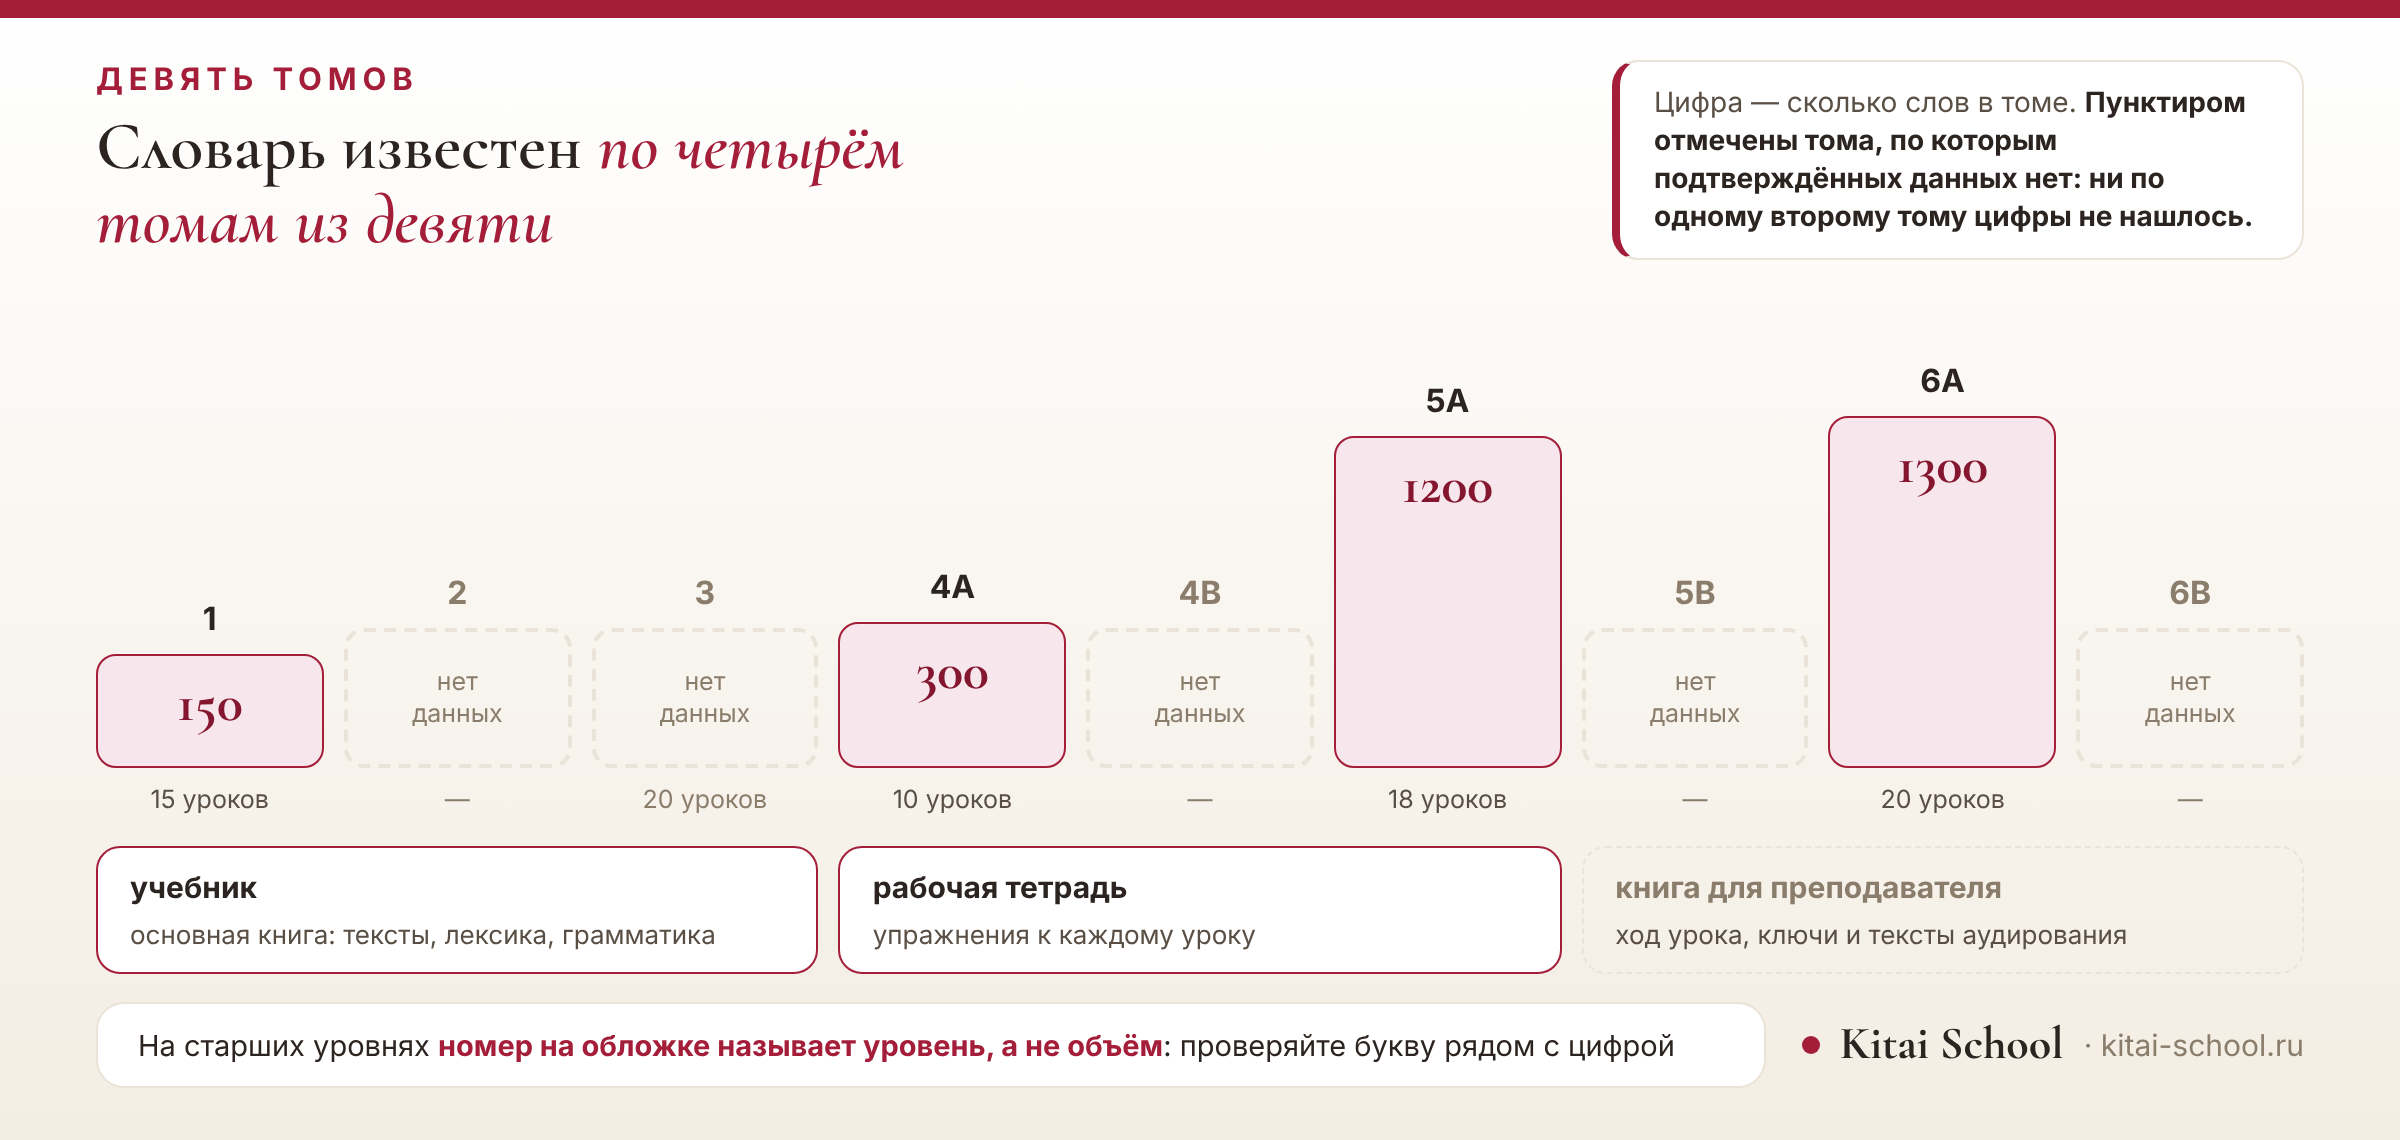
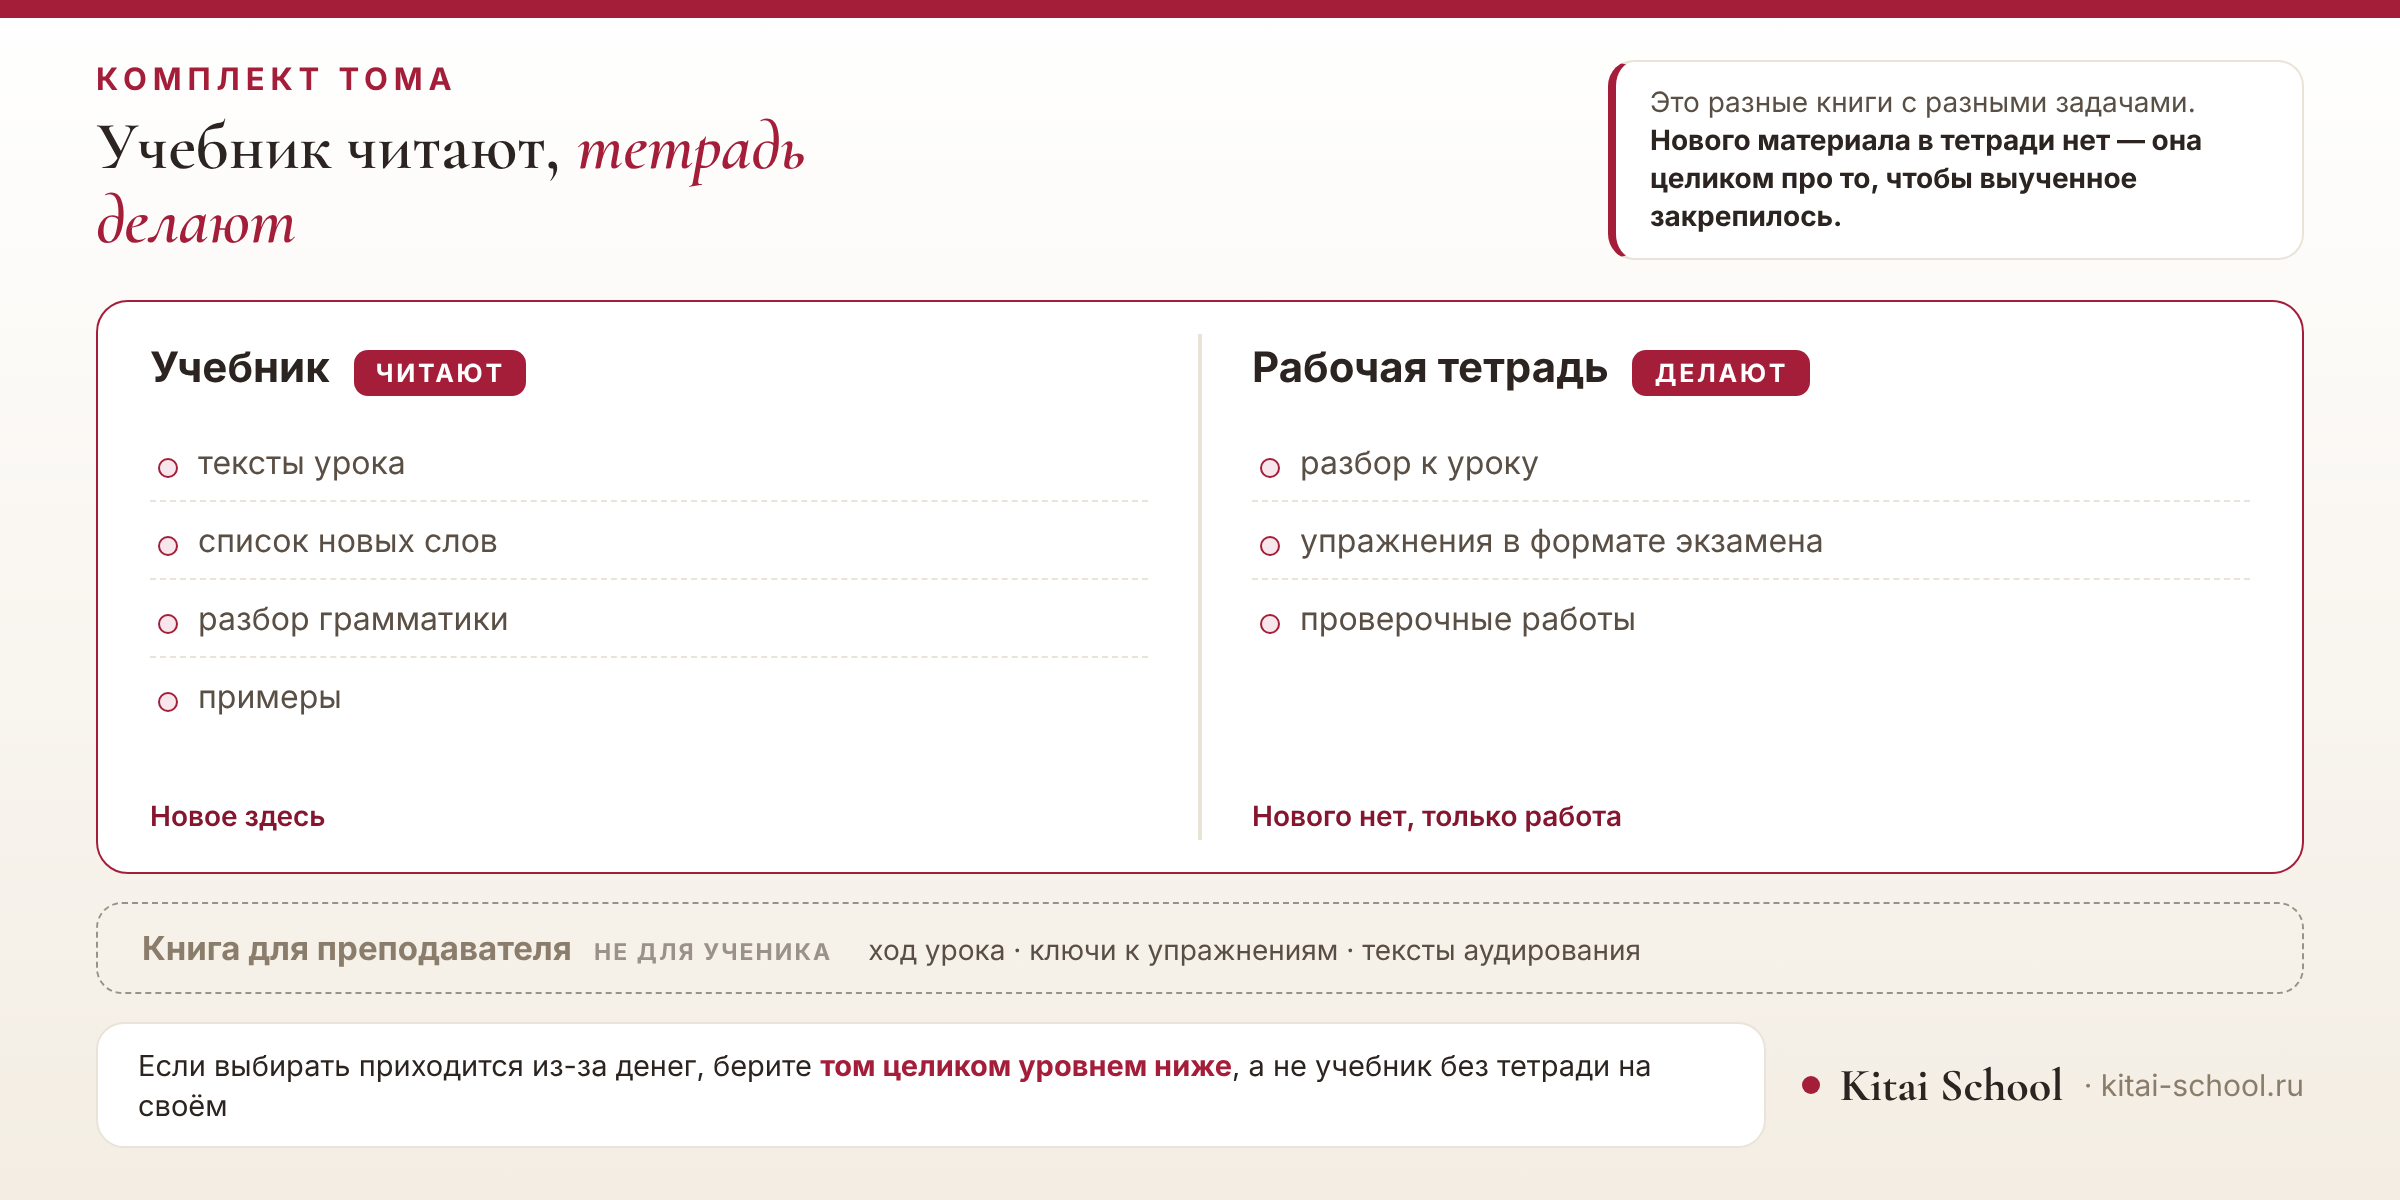
Новая инфографика к «Учебнику HSK Standard Course»: разбор комплекта
Вместо словаря томов — разворот двух книг, которые нужны ученику:
слева учебник с тем, что в нём лежит, справа тетрадь, посередине
корешок. Под разворотом книга для преподавателя отдельной строкой с
пометкой «не для ученика».

Состав книг вынесен в данные: ассерты сверяют его с комплектом по
названиям, порядку и признаку нужности, требуют, чтобы пункты не
повторялись между книгами и чтобы в учебнике их было больше, чем в
тетради. Первый вариант ассерта требовал по три пункта в каждой книге
и поймал, что в учебнике их четыре.

Claude-Session: https://claude.ai/code/session_017dS7Wuw6MNB5fnZSr6hVh2

diff --git a/content/img-uchvse.py b/content/img-uchvse.py
@@ -1,10 +1,10 @@
 # -*- coding: utf-8 -*-
 # Картинки к статье «HSK Standard Course: учебники по уровням»
 # Обложка     — три ступени счёта: шесть уровней, девять томов, двадцать семь книг
-# Инфографика — девять томов в ряд: у четырёх словарь подтверждён, у пяти поле пустое
+# Инфографика — разбор комплекта: что лежит в учебнике, тетради и книге преподавателя
 import sys
 sys.path.insert(0, "/home/user/Kitai-Shool/content")
-from uch_vse import (VOLUMES, KIT, LEVELS, VOLS_PER_LEVEL, ONE_VOLUME, TWO_VOLUMES,
+from uch_vse import (VOLUMES, KIT, INSIDE, HOW, LEVELS, VOLS_PER_LEVEL, ONE_VOLUME, TWO_VOLUMES,
                      TOTAL_VOLUMES, BOOKS_PER_VOLUME, TOTAL_BOOKS, KNOWN, UNKNOWN,
                      SERIES_NAME, SERIES_CN)
 
@@ -107,27 +107,29 @@ h1 i{font-style:italic;color:var(--brick)}
 assert "%%" not in hero, "в разметке остались двойные проценты"
 open(S + "uchvse-hero.html", "w", encoding="utf-8").write(hero)
 
-# ─────────── инфографика: девять томов, словарь известен по четырём ───────────
-TOP_W = max(v[3] for v in KNOWN)
-MAXH, MINH = 176, 42
-cols = ""
-for lvl, tag, les, w in VOLUMES:
-    if w:
-        h = round(MINH + (MAXH - MINH) * w / TOP_W)
-        inner = ('<div class="bar on" style="height:%dpx"><span>%d</span></div>'
-                 '<div class="les">%d уроков</div>' % (h, w, les))
-    else:
-        inner = ('<div class="bar off"><span>нет<br>данных</span></div>'
-                 '<div class="les">%s</div>' % ("%d уроков" % les if les else "—"))
-    cols += '<div class="cl%s"><div class="tag">%s</div>%s</div>' % (
-        "" if w else " dim", tag, inner)
-assert cols.count('class="bar on"') == len(KNOWN) == 4
-assert cols.count('class="bar off"') == len(UNKNOWN) == 5
+# ─────────── инфографика: что лежит в каждой книге комплекта ───────────
+NEED = [b for b in INSIDE if b[2]]
+EXTRA = [b for b in INSIDE if not b[2]]
+assert len(NEED) == 2 and len(EXTRA) == 1
 
-kit_items = "".join(
-    '<div class="ki%s"><b>%s</b><span>%s</span></div>'
-    % ("" if need else " no", name, what) for name, what, need in KIT)
-assert kit_items.count('class="ki no"') == 1, "одна книга из трёх ученику не нужна"
+HOW_D = dict((n, (verb, note)) for n, verb, note in HOW)
+
+pages = ""
+for name, parts, need in NEED:
+    verb, note = HOW_D[name]
+    items = "".join('<li>%s</li>' % p for p in parts)
+    pages += ("""<div class="pg">
+  <div class="ph"><b>%(name)s</b><i>%(verb)s</i></div>
+  <ul class="pl">%(items)s</ul>
+  <div class="pn">%(note)s</div>
+</div>""" % dict(name=name.capitalize(), verb=verb, items=items, note=note[0].upper() + note[1:]))
+assert pages.count('class="pg"') == 2
+assert pages.count("<li>") == sum(len(p) for n, p, need in NEED)
+
+ename, eparts, _ = EXTRA[0]
+extra = ('<div class="ex"><div class="eh"><b>%s</b><i>не для ученика</i></div>'
+         '<div class="el">%s</div></div>'
+         % (ename.capitalize(), " · ".join(eparts)))
 
 info = """<!DOCTYPE html><html lang="ru"><head><meta charset="utf-8">
 %(fonts)s
@@ -138,29 +140,28 @@ info = """<!DOCTYPE html><html lang="ru"><head><meta charset="utf-8">
 .wrap:before{content:"";position:absolute;left:0;right:0;top:0;height:9px;background:var(--brick)}
 .top{display:flex;align-items:flex-end;justify-content:space-between;gap:34px;margin-bottom:20px}
 .eyebrow{color:var(--brick);font-weight:700;font-size:15.5px;letter-spacing:.19em;text-transform:uppercase;margin-bottom:7px}
-h2{font-family:'Cormorant Garamond',serif;font-weight:600;font-size:34px;line-height:1.08;color:var(--ink);max-width:25ch}
+h2{font-family:'Cormorant Garamond',serif;font-weight:600;font-size:34px;line-height:1.08;color:var(--ink);max-width:24ch}
 h2 i{font-style:italic;color:var(--brick)}
-.hint0{flex:0 0 346px;background:var(--surface);border:1px solid var(--hair);border-left:4px solid var(--brick);border-radius:13px;padding:11px 17px;font-size:14px;color:var(--ink-2);line-height:1.35}
+.hint0{flex:0 0 348px;background:var(--surface);border:1px solid var(--hair);border-left:4px solid var(--brick);border-radius:13px;padding:11px 17px;font-size:14px;color:var(--ink-2);line-height:1.35}
 .hint0 b{color:var(--ink)}
 
-.grid{flex:1 1 auto;min-height:0;display:flex;align-items:flex-end;gap:10px}
-.cl{flex:1 1 0;display:flex;flex-direction:column;align-items:center}
-.tag{font-size:16px;font-weight:700;color:var(--ink);margin-bottom:8px}
-.cl.dim .tag{color:var(--taupe)}
-.bar{width:100%%;border-radius:10px;display:flex;align-items:flex-start;justify-content:center;padding-top:10px}
-.bar.on{background:var(--brick-soft);border:1px solid var(--brick)}
-.bar.on span{font-family:'Cormorant Garamond',serif;font-weight:700;font-size:27px;color:var(--brick-d);line-height:1}
-.bar.off{height:70px;background:transparent;border:2px dashed var(--hair);align-items:center;padding-top:0}
-.bar.off span{font-size:12.5px;color:var(--taupe);text-align:center;line-height:1.25}
-.les{margin-top:8px;font-size:12.5px;color:var(--ink-2)}
-.cl.dim .les{color:var(--taupe)}
+.spread{flex:1 1 auto;min-height:0;display:flex;align-items:stretch;position:relative;background:var(--surface);border:1px solid var(--brick);border-radius:16px;overflow:hidden}
+.spread:before{content:"";position:absolute;left:50%%;top:16px;bottom:16px;width:2px;background:var(--hair);transform:translateX(-50%%)}
+.pg{flex:1 1 0;padding:20px 26px;display:flex;flex-direction:column}
+.ph{display:flex;align-items:baseline;gap:12px;margin-bottom:14px}
+.ph b{font-size:21px;color:var(--ink)}
+.ph i{font-style:normal;font-size:12.5px;font-weight:700;letter-spacing:.11em;text-transform:uppercase;color:#fff;background:var(--brick);border-radius:7px;padding:4px 11px}
+.pl{list-style:none;padding:0;margin:0}
+.pl li{position:relative;padding:9px 0 9px 24px;font-size:16px;color:var(--ink-2);border-bottom:1px dashed var(--hair)}
+.pl li:last-child{border-bottom:none}
+.pl li:before{content:"";position:absolute;left:4px;top:17px;width:8px;height:8px;border-radius:50%%;background:var(--brick-soft);border:1px solid var(--brick)}
+.pn{margin-top:auto;padding-top:14px;font-size:14px;color:var(--brick-d);font-weight:600}
 
-.kit{margin-top:16px;flex:0 0 auto;display:flex;gap:10px}
-.ki{flex:1 1 0;background:var(--surface);border:1px solid var(--brick);border-radius:12px;padding:10px 16px}
-.ki.no{border-color:var(--hair);border-style:dashed;background:transparent}
-.ki b{display:block;font-size:15px;color:var(--ink);margin-bottom:3px}
-.ki.no b{color:var(--taupe)}
-.ki span{font-size:13px;color:var(--ink-2);line-height:1.3}
+.ex{margin-top:14px;flex:0 0 auto;background:transparent;border:1px dashed var(--grey);border-radius:13px;padding:12px 22px;display:flex;align-items:center;gap:18px}
+.eh{display:flex;align-items:baseline;gap:11px;flex:0 0 auto}
+.eh b{font-size:16.5px;color:var(--taupe)}
+.eh i{font-style:normal;font-size:11.5px;font-weight:700;letter-spacing:.09em;text-transform:uppercase;color:var(--grey)}
+.el{font-size:14px;color:var(--ink-2)}
 
 .foot{margin-top:14px;flex:0 0 auto;display:flex;align-items:center;gap:18px}
 .foot .msg{flex:1 1 auto;background:var(--surface);border:1px solid var(--hair);border-radius:14px;padding:11px 20px;font-size:14.5px;color:var(--ink);line-height:1.34}
@@ -173,25 +174,25 @@ h2 i{font-style:italic;color:var(--brick)}
 <div class="wrap">
   <div class="top">
     <div>
-      <div class="eyebrow">Девять томов</div>
-      <h2>Словарь известен <i>по четырём томам из девяти</i></h2>
+      <div class="eyebrow">Комплект тома</div>
+      <h2>Учебник читают, <i>тетрадь делают</i></h2>
     </div>
-    <div class="hint0">Цифра — сколько слов в томе. <b>Пунктиром отмечены тома, по которым подтверждённых данных нет: ни по одному второму тому цифры не нашлось.</b></div>
+    <div class="hint0">Это разные книги с разными задачами. <b>Нового материала в тетради нет — она целиком про то, чтобы выученное закрепилось.</b></div>
   </div>
 
-  <div class="grid">%(cols)s</div>
+  <div class="spread">%(pages)s</div>
 
-  <div class="kit">%(kit)s</div>
+  %(extra)s
 
   <div class="foot">
-    <div class="msg">На старших уровнях <b>номер на обложке называет уровень, а не объём</b>: проверяйте букву рядом с цифрой</div>
+    <div class="msg">Если выбирать приходится из-за денег, берите <b>том целиком уровнем ниже</b>, а не учебник без тетради на своём</div>
     <div class="brand"><span class="dot2"></span><b>Kitai School</b><span>&middot; kitai-school.ru</span></div>
   </div>
 </div>
-</body></html>""" % dict(fonts=FONTS, vars=VARS, h=570, cols=cols, kit=kit_items)
+</body></html>""" % dict(fonts=FONTS, vars=VARS, h=600, pages=pages, extra=extra)
 
 assert "%%" not in info, "в разметке остались двойные проценты"
 open(S + "uchvse-info.html", "w", encoding="utf-8").write(info)
 
-print("ok | томов:", TOTAL_VOLUMES, "| книг:", TOTAL_BOOKS,
-      "| с цифрой:", [v[1] for v in KNOWN], "| без:", [v[1] for v in UNKNOWN])
+print("ok | нужных книг:", len(NEED), "| пунктов:", sum(len(p) for n, p, need in INSIDE),
+      "| лишняя:", EXTRA[0][0])

diff --git a/content/uch_vse.py b/content/uch_vse.py
@@ -32,6 +32,21 @@ KIT = [
     ("книга для преподавателя", "ход урока, ключи и тексты аудирования", False),
 ]
 
+# что лежит внутри каждой книги комплекта: книга, содержимое, кому нужна
+INSIDE = [
+    ("учебник", ["тексты урока", "список новых слов", "разбор грамматики", "примеры"], True),
+    ("рабочая тетрадь", ["разбор к уроку", "упражнения в формате экзамена",
+                         "проверочные работы"], True),
+    ("книга для преподавателя", ["ход урока", "ключи к упражнениям",
+                                 "тексты аудирования"], False),
+]
+
+# чем две нужные книги отличаются по способу работы
+HOW = [
+    ("учебник", "читают", "новое здесь"),
+    ("рабочая тетрадь", "делают", "нового нет, только работа"),
+]
+
 # как устроено аудио
 AUDIO = [
     ("код на задней обложке", "в изданиях последних лет запись берут по нему"),
@@ -78,3 +93,19 @@ assert WORDS[-1] // WORDS[0] >= 8, "между первым томом и шес
 assert len(NEEDED) == 2, "ученику нужны две книги из трёх"
 assert "книга для преподавателя" not in NEEDED, "третья книга — не для ученика"
 assert len(AUDIO) == 2, "два способа получить запись"
+
+assert len(INSIDE) == 3, "книг в комплекте три"
+assert [n for n, parts, need in INSIDE] == [n for n, what, need in KIT], \
+    "состав совпадает с комплектом по названиям и порядку"
+assert [need for n, parts, need in INSIDE] == [need for n, what, need in KIT], \
+    "и по тому, кому книга нужна"
+assert all(len(parts) >= 3 for n, parts, need in INSIDE), "в каждой книге не меньше трёх пунктов"
+assert len(INSIDE[0][1]) > len(INSIDE[1][1]), \
+    "в учебнике пунктов больше: он основная книга"
+_PTS = [p for n, parts, need in INSIDE for p in parts]
+assert len(set(_PTS)) == len(_PTS), "пункты не повторяются между книгами"
+
+assert len(HOW) == 2 and [h[0] for h in HOW] == [n for n, p, need in INSIDE if need], \
+    "способ работы описан у двух книг, которые нужны ученику"
+assert HOW[0][1] == "читают" and HOW[1][1] == "делают", \
+    "учебник читают, тетрадь делают — на этом держится весь раздел"
